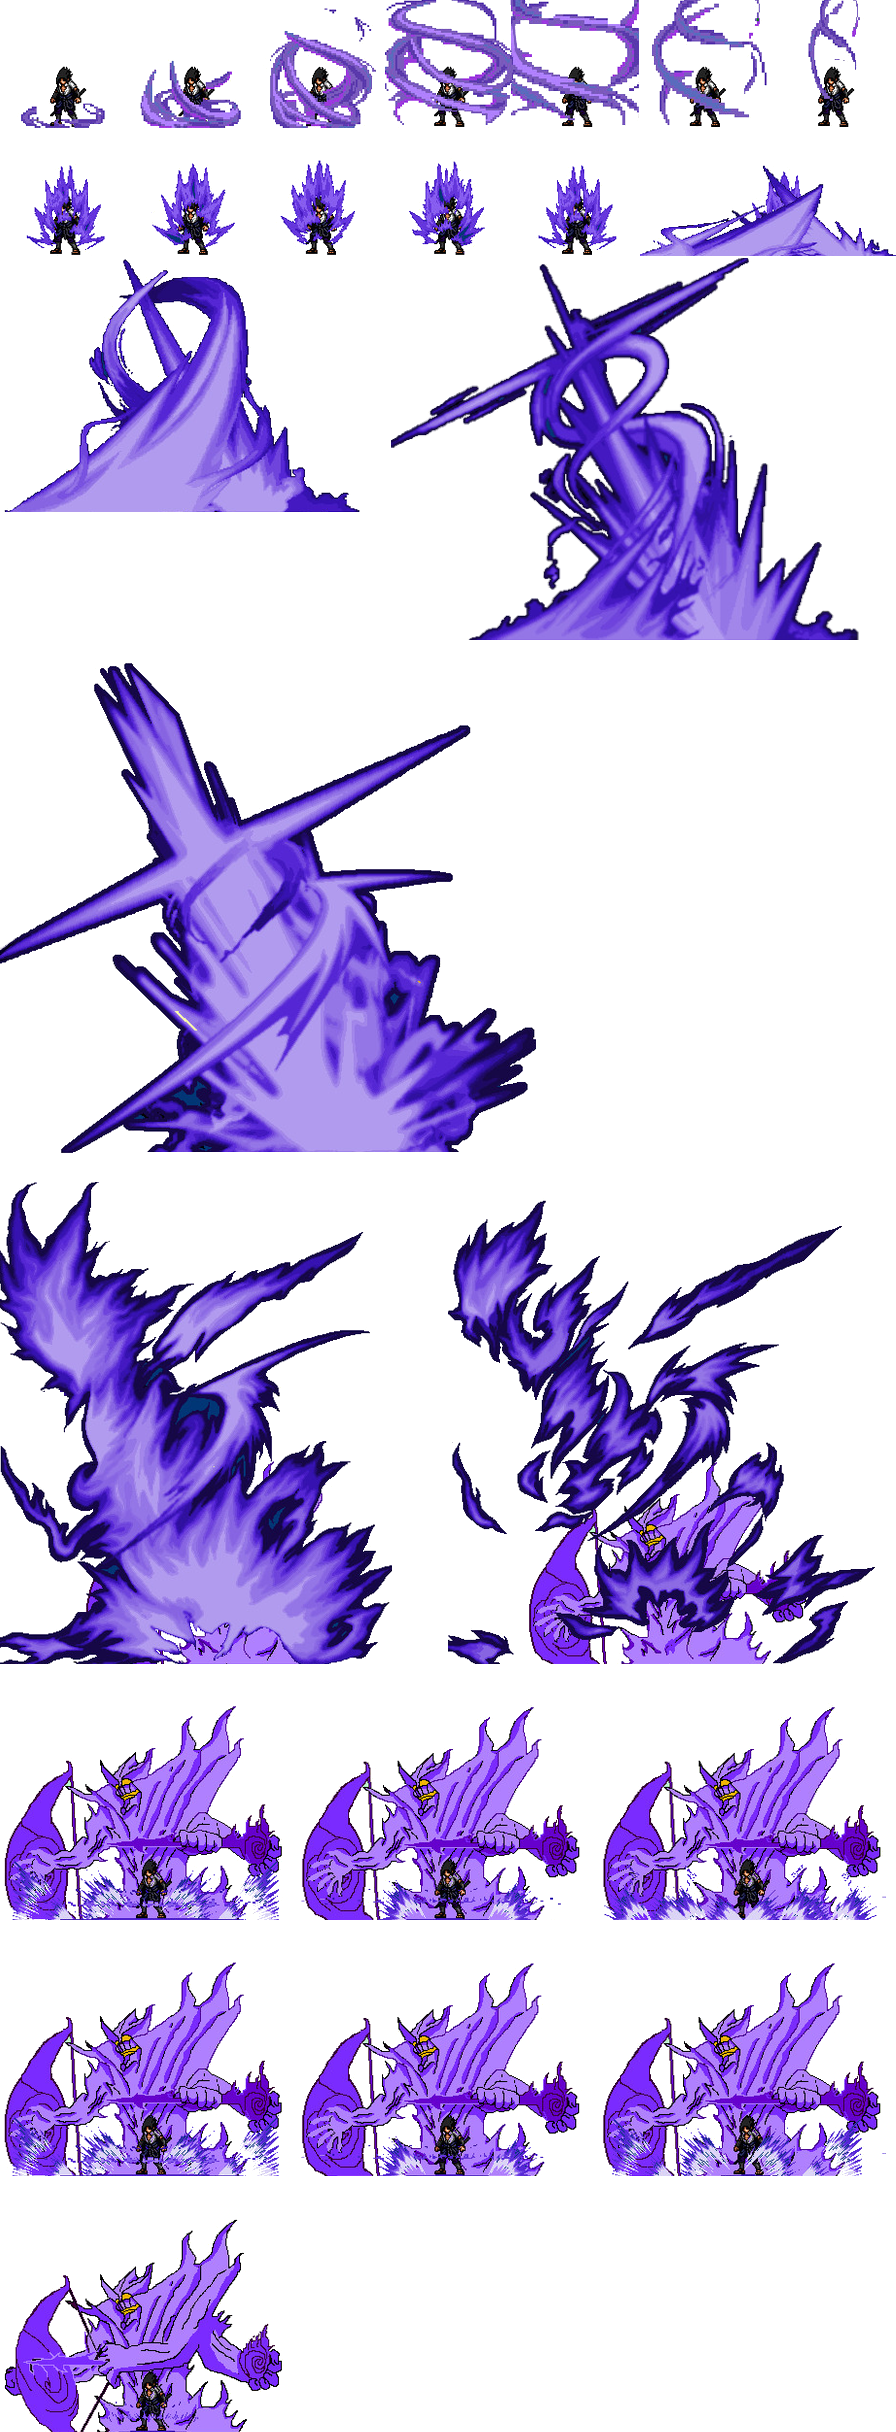
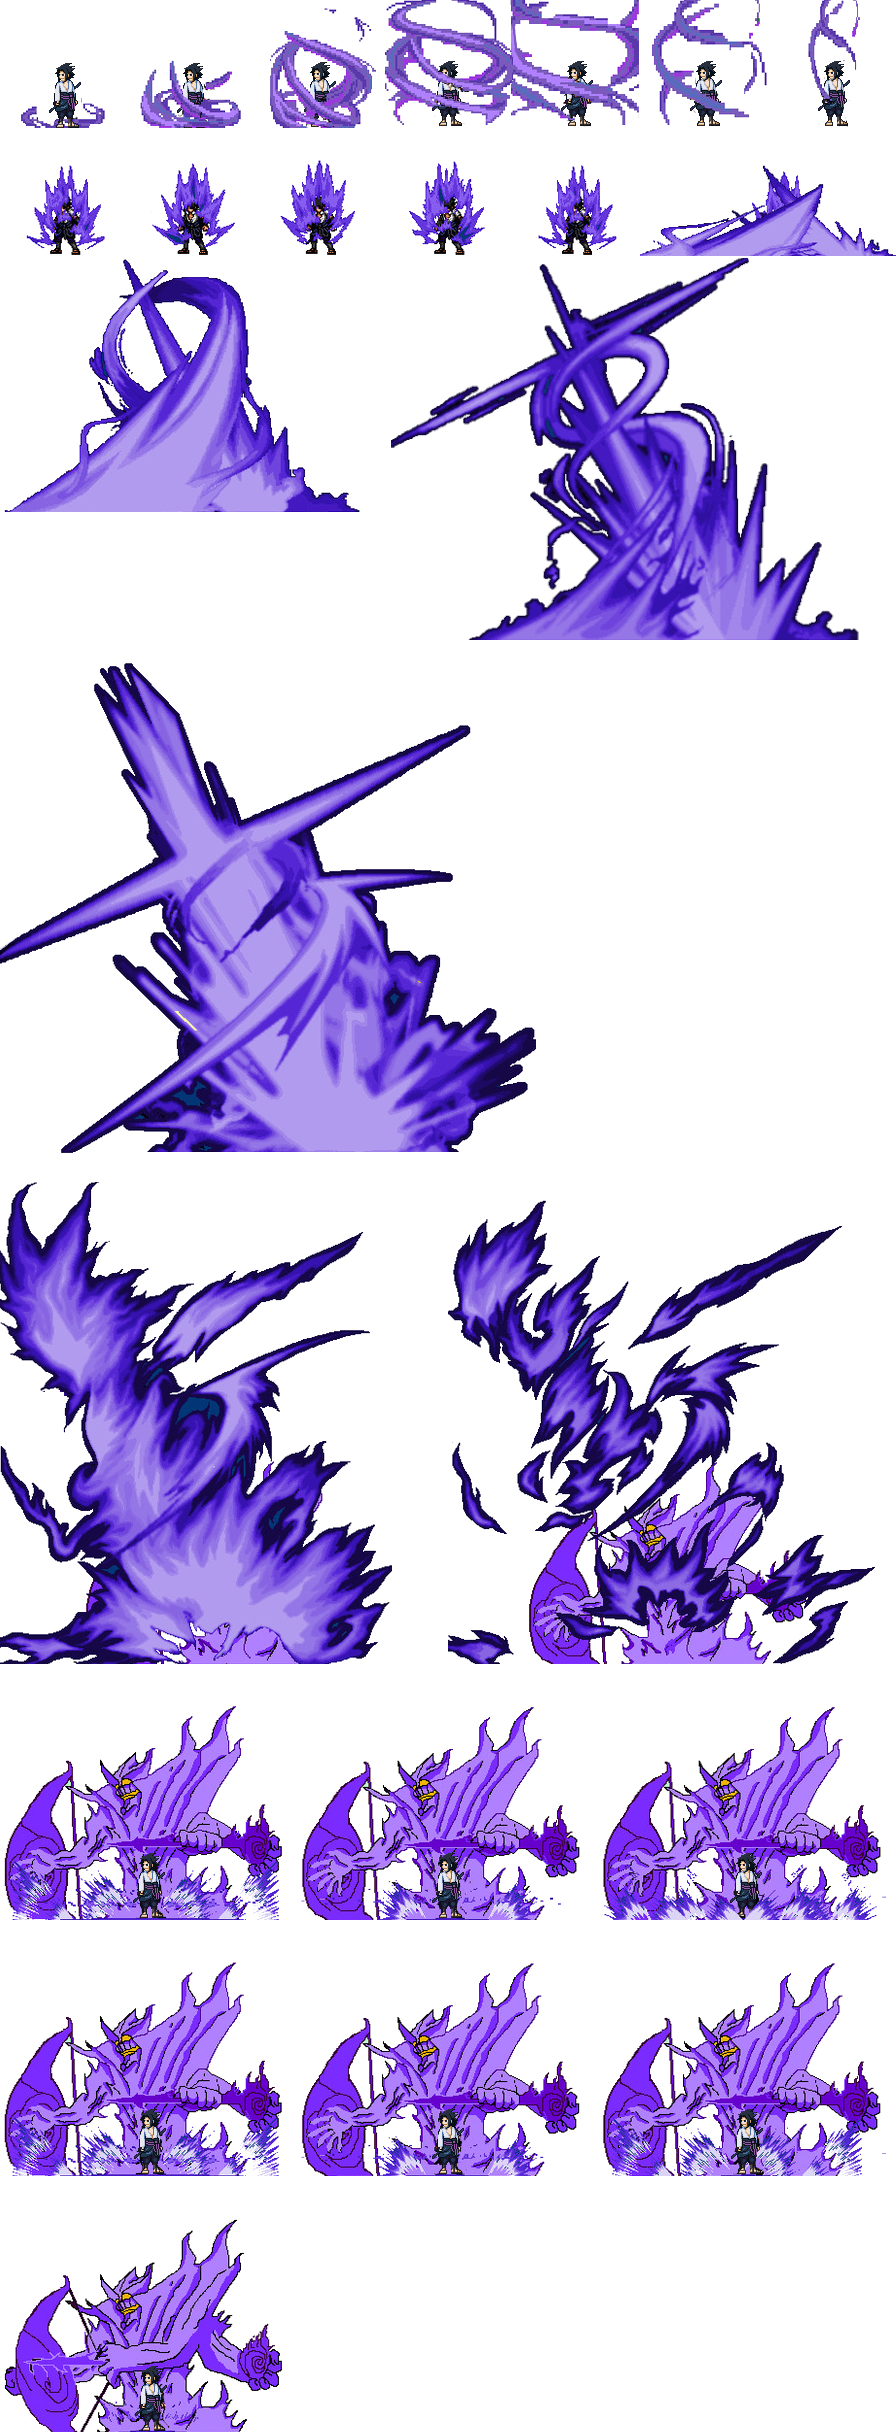
milgiorie
animazioni torri, pulizia codice, pulizia file, modifica texture.

diff --git a/progetto/src/scenes/Level1.java b/progetto/src/scenes/Level1.java
@@ -19,22 +19,16 @@ import managers.*;
 
 
 public class Level1 extends GameScene implements SceneMethods{
-    private BufferedImage[] naruto;
-    private BufferedImage narutoall;
+    private int aniTick, aniSpeed = 40;
     
     private EnemyManager enemymanager;
     private TowerManager towermanager;
     ////////////////////
-    private BufferedImage[] luffy;
-    private BufferedImage luffyall;
     
     private int[] susanoIndex;
     private int susanoRow=0;
     private BufferedImage[][] susano;
     private BufferedImage susanoall;
-    
-    private BufferedImage sasukeAttackall;
-    private BufferedImage[][] sasukeAttack;
     /////////////////////
     
     private BufferedImage ingranaggio;
@@ -43,10 +37,6 @@ public class Level1 extends GameScene implements SceneMethods{
     private ActionBar bottombar;
     
     private int mouseX,mouseY;
-    
-    private int aniTick,aniIndex,Index7, aniSpeed = 18;
-    private int assex=100;
-    
     
     private MyButton Bmenu;
     private Font f;
@@ -82,11 +72,7 @@ public class Level1 extends GameScene implements SceneMethods{
     }
     private void impImage() {
         ingranaggio= LoadSave.getImage(LoadSave.INGRANAGGIO);
-        narutoall= LoadSave.getImage(LoadSave.NARUTO);
-        luffyall= LoadSave.getImage(LoadSave.LUFFY);
-        susanoall= LoadSave.getImage(LoadSave.SUSANO);
-        sasukeAttackall= LoadSave.getImage(LoadSave.SASUKE_BASE);
-        
+        susanoall= LoadSave.getImage(LoadSave.SUSANO);     
     }
     private void initButtons() {
         int w = 80;
@@ -100,21 +86,6 @@ public class Level1 extends GameScene implements SceneMethods{
     }
     
      private void loadAnimations() {
-        naruto=new BufferedImage[6];
-        for (int i = 0; i < naruto.length; i++) {
-            naruto[i] = narutoall.getSubimage(64*i, 0, 64, 64);        
-        }
-        luffy=new BufferedImage[8];
-        for (int i = 0; i < naruto.length; i++) {
-            luffy[i] = luffyall.getSubimage(75*i, 0, 75, 75);        
-        }
-        sasukeAttack=new BufferedImage[2][7];
-        for (int i = 0; i < sasukeAttack[0].length; i++) {
-            sasukeAttack[0][i] = sasukeAttackall.getSubimage(64*i, 0, 64, 128);        
-        }
-        for (int i = 0; i < 3; i++) {
-            sasukeAttack[1][i] = sasukeAttackall.getSubimage(64*i, 128, 64, 64);        
-        }
         loadSusano();
     }
      private void loadSusano() {
@@ -152,18 +123,10 @@ public class Level1 extends GameScene implements SceneMethods{
         this.lvl=lvl;
     }
     private void updateAnimationTick() {
-        aniTick++;
-        if(aniTick>= aniSpeed){
+         aniTick++;
+            if(aniTick>= aniSpeed){
             aniTick=0;
-            aniIndex++;
-            if(Index7 < 6)
-                Index7++;
-            
             susanoIndex[susanoRow]++;
-            
-            if(aniIndex>= naruto.length)
-                aniIndex=0;
-                
             
             
             if(susanoIndex[0]>= 7){
@@ -198,15 +161,14 @@ public class Level1 extends GameScene implements SceneMethods{
                 susanoIndex[7]=0;
                 susanoRow=0;
             }
-        }   
+        }
     }
     
     public void updates(){
         enemymanager.update();
         towermanager.update();
     }
-    int fire=890;
-    int fireIndex=0;
+
     @Override
     public void render(Graphics g) {
         drawBackground(g);
@@ -214,25 +176,11 @@ public class Level1 extends GameScene implements SceneMethods{
         drawButton(g);
         enemymanager.draw(g);
         towermanager.draw(g);
-        
-        g.drawImage(naruto[aniIndex], assex, 100, 134, 134, null);
-        g.drawImage(sasukeAttack[0][Index7], 900, 400, 64, 128, null);
-        if(Index7>=5){
-            g.drawImage(sasukeAttack[1][fireIndex/40], fire, 435, 64, 64, null);
-            fire--;
-            if(fireIndex<119)
-                fireIndex++;
-            if(fire<=-64){
-                fire=890;
-                Index7=0;
-                fireIndex=0;
-            }
-        }
-        
+
         //////////////
-        int susanoX=600;
-        int susanoY=600;
-        int dim=128;
+        int susanoX=Tile.spriteWidth*12-32;
+        int susanoY=Tile.spriteHeight*7-5;
+        int dim=110;
         switch(susanoRow){
             case 0:
                     g.drawImage(susano[0][susanoIndex[0]], susanoX-dim/2, susanoY-dim, dim, dim, null);
@@ -268,7 +216,6 @@ public class Level1 extends GameScene implements SceneMethods{
         } else{
             
             updateAnimationTick();
-            assex++;
         }   
         bottombar.draw(g);
         
@@ -378,8 +325,6 @@ public class Level1 extends GameScene implements SceneMethods{
 
     private void drawSelectedTower(Graphics g) {
         if(selectedTower != null)
-            g.drawImage(towermanager.getTowerImgs()[selectedTower.getTypetower()][0], mouseX, mouseY, null);
-    }
-
-    
+            g.drawImage(towermanager.getTowerImgs()[selectedTower.getTypetower()][0], mouseX, mouseY,Tile.spriteWidth,Tile.spriteHeight, null);
+    } 
 }

diff --git a/progetto/src/scenes/Playing.java b/progetto/src/scenes/Playing.java
@@ -25,24 +25,14 @@ import ui.PauseOverlay;
 
 
 public class Playing extends GameScene implements SceneMethods{
-    private BufferedImage[] naruto;
-    private BufferedImage narutoall;
     private BufferedImage ingranaggio;
     private LevelMenu levelmenu;
     
     private TileManager tilemanager;
     
-    private int aniTick,aniIndex, aniSpeed = 30;
-    private int assex=100;
-    
-    
     private MyButton Bmenu;
     private Font f;
-    private Color c;
-    
-    private PauseOverlay pauseoverlay;
-    private boolean paused=true;
-            
+    private Color c;        
     
     public Playing(Game game) {
         super(game);
@@ -52,23 +42,17 @@ public class Playing extends GameScene implements SceneMethods{
            
         impImage();   
         
-        initButtons();
-        
-        loadAnimations();          
+        initButtons();        
     }  
     public void initClasses(){
         //TileManager
         tilemanager = new TileManager();
-        int tempHeight=(int)(Game.currentScreenHeight*0.17);
         levelmenu = new LevelMenu();
     }
     private void impImage() {
-        ingranaggio= LoadSave.getImage(LoadSave.INGRANAGGIO);
-        narutoall= LoadSave.getImage(LoadSave.NARUTO);
-        
+        ingranaggio= LoadSave.getImage(LoadSave.INGRANAGGIO);    
     }
     private void initButtons() {
-
         int w = 80;
         int h = 80;
         int x = 10;
@@ -77,36 +61,13 @@ public class Playing extends GameScene implements SceneMethods{
         f=new Font("Arial",Font.BOLD,40);
         c=new Color(255,0,0);
         Bmenu = new MyButton("", x, y, w, h, f, c);
-    }
-    
-     private void loadAnimations() {
-        naruto=new BufferedImage[6];
-        for (int i = 0; i < naruto.length; i++) {
-            naruto[i] = narutoall.getSubimage(64*i, 0, 64, 64);        
-        }
-    }
-    private void updateAnimationTick() {
-        aniTick++;
-        if(aniTick>= aniSpeed){
-            aniTick=0;
-            aniIndex++;
-            if(aniIndex>= naruto.length)
-                aniIndex=0;
-        }
-    }
-    
+    } 
     public void updates(){
         
     }
     
     @Override
     public void render(Graphics g) {
-        //updateAnimationTick();
-        //g.drawImage(naruto[aniIndex], assex, 100, 164, 164, null);
-        //assex++;
-        //pauseoverlay.update();
-        //pauseoverlay.draw(g);
-        
         levelmenu.draw(g);
         
         g.drawImage(ingranaggio, 10, 10, 80, 80, null);

diff --git a/progetto/src/managers/TowerManager.java b/progetto/src/managers/TowerManager.java
@@ -14,18 +14,19 @@ public class TowerManager {
     private BufferedImage[][] towerImgs;
     private ArrayList<Tower> towers = new ArrayList<>();
     private int towerAmmount = 0;
+    private int aniTick,index6=0,index7=0,index10=0, aniSpeed = 22;
     
     public TowerManager(Level1 level1){
         this.level1= level1;
         loadTower(); 
     }
     private void loadTower(){
-        BufferedImage towers = LoadSave.getImage(LoadSave.SASUKE_BASE);
+        BufferedImage towers = LoadSave.getImage(LoadSave.NARUTO_TOWER);
         
-        towerImgs = new BufferedImage[3][7];
+        towerImgs = new BufferedImage[3][10];
         for (int i = 0; i < towerImgs.length; i++) {
             for (int j = 0; j < towerImgs[i].length; j++) {
-                towerImgs[i][j]=towers.getSubimage(0*64, 0, 64, 128);
+                towerImgs[i][j]=towers.getSubimage(j*128, i*128, 128, 128);
             }
         }
     }
@@ -37,13 +38,41 @@ public class TowerManager {
     }
     public void draw(Graphics g){
         for (Tower t : towers) {
-            g.drawImage(towerImgs[t.getTypetower()][0], t.getX(), t.getY(), null);
+            drawTower(t, g);
+        }
+        updateAnimationTick();
+    }
+    private void drawTower(Tower t, Graphics g){
+        switch(t.getTypetower()){
+            case 0:
+                g.drawImage(towerImgs[0][index6], (int)t.getX(), (int)t.getY(), Tile.spriteWidth, Tile.spriteHeight, null);
+                break;
+            case 1:
+                g.drawImage(towerImgs[1][index7], (int)t.getX(), (int)t.getY(), Tile.spriteWidth, Tile.spriteHeight, null);
+                break;
+            case 2:
+                g.drawImage(towerImgs[2][index10], (int)t.getX(), (int)t.getY(), Tile.spriteWidth, Tile.spriteHeight, null);
+                break;
         }
     }
     
+    private void updateAnimationTick() {
+        aniTick++;
+        if(aniTick>= aniSpeed){
+            aniTick=0;
+            index6++; 
+            index7++; 
+            index10++;
+            if(index6>= 6)
+                index6=0;
+            if(index7>=7)
+                index7=0;
+            if(index10>=10){
+                index10=0;
+            }
+        }
+    }
     public BufferedImage[][] getTowerImgs(){
         return towerImgs;
     }
-
-    
 }

diff --git a/progetto/src/helpz/LoadSave.java b/progetto/src/helpz/LoadSave.java
@@ -19,10 +19,8 @@ public class LoadSave {
     public static final String MENU_BUTTONS = "image/other/menuButton.png";
     public static final String LEVEL_MENU = "image/other/LevelMenu.png";
     public static final String INGRANAGGIO = "image/other/ingranaggio.png";
-    public static final String NARUTO = "image/enemy/naruto.png";
-    public static final String LUFFY = "image/enemy/luffy.png";
     public static final String SUSANO = "image/tower/susano.png";
-    public static final String SASUKE_BASE = "image/tower/sasukebase.png";
+    public static final String NARUTO_TOWER = "image/tower/naruto_tower.png";
     public static final String NARUTO_ENEMY = "image/enemy/naruto_enemy.png";
     
     //LOAD IMAGE     
